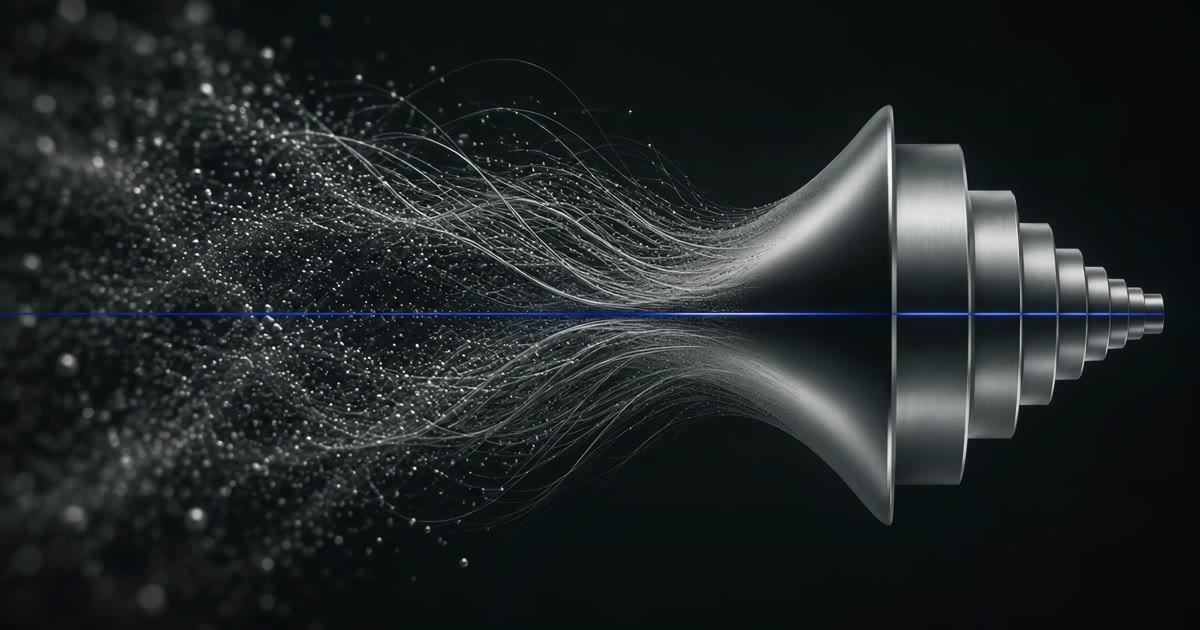
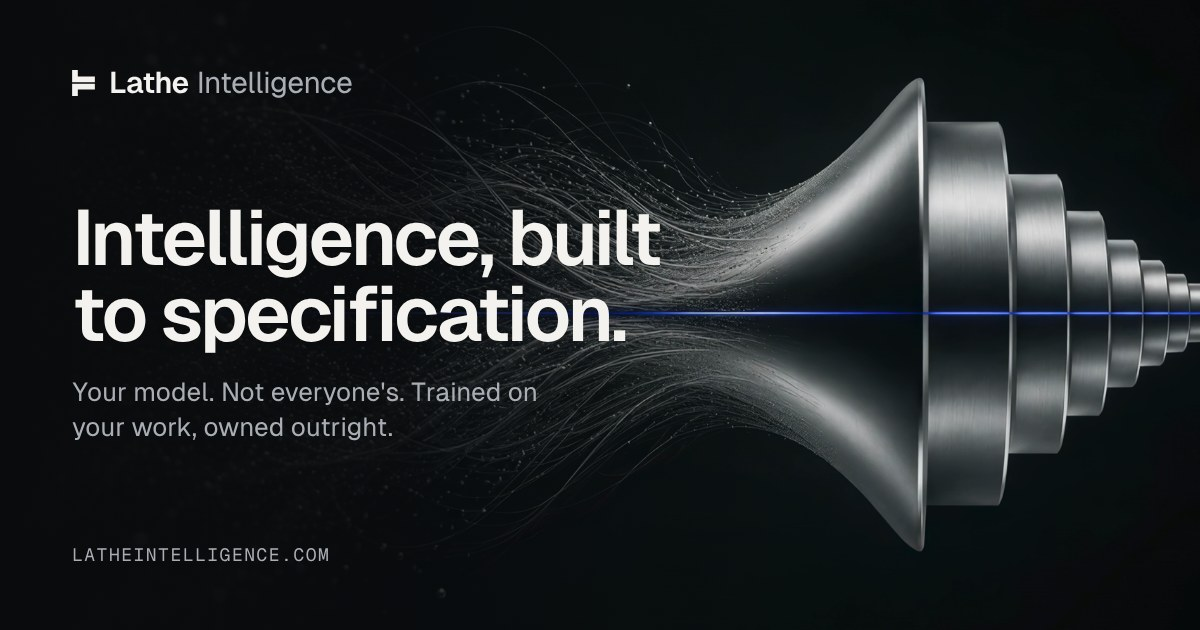
Share card, SEO metadata, robots and sitemap
Claude-Session: https://claude.ai/code/session_01Ubo5dTE5ivrUNGmjaSktkC

diff --git a/index.html b/index.html
@@ -3,18 +3,29 @@
 <head>
 <meta charset="utf-8">
 <meta name="viewport" content="width=device-width, initial-scale=1">
-<title>Lathe Intelligence</title>
-<meta name="description" content="Intelligence, built to specification. Specialised AI models trained on your work, run on your terms, owned outright.">
+<title>Lathe Intelligence | Specialised AI models, owned outright</title>
+<meta name="description" content="Lathe Intelligence builds specialised AI models to your specification: trained on your work, run on your terms and owned outright.">
+<meta name="theme-color" content="#090B0D">
+<meta name="robots" content="index,follow">
 <link rel="icon" href="/favicon.ico" sizes="48x48">
 <link rel="icon" href="/favicon.svg" type="image/svg+xml">
 <link rel="apple-touch-icon" href="/apple-touch-icon.png">
 <link rel="canonical" href="https://latheintelligence.com/">
 <meta property="og:type" content="website">
+<meta property="og:site_name" content="Lathe Intelligence">
+<meta property="og:locale" content="en_GB">
 <meta property="og:url" content="https://latheintelligence.com/">
-<meta property="og:title" content="Lathe Intelligence">
-<meta property="og:description" content="Intelligence, built to specification. Specialised AI models trained on your work, run on your terms, owned outright.">
+<meta property="og:title" content="Lathe Intelligence | Intelligence, built to specification.">
+<meta property="og:description" content="Lathe Intelligence builds specialised AI models to your specification: trained on your work, run on your terms and owned outright.">
 <meta property="og:image" content="https://latheintelligence.com/og.jpg">
+<meta property="og:image:width" content="1200">
+<meta property="og:image:height" content="630">
+<meta property="og:image:alt" content="Lathe Intelligence. Intelligence, built to specification.">
 <meta name="twitter:card" content="summary_large_image">
+<meta name="twitter:title" content="Lathe Intelligence | Intelligence, built to specification.">
+<meta name="twitter:description" content="Lathe Intelligence builds specialised AI models to your specification: trained on your work, run on your terms and owned outright.">
+<meta name="twitter:image" content="https://latheintelligence.com/og.jpg">
+<script type="application/ld+json">{"@context":"https://schema.org","@graph":[{"@type":"Organization","@id":"https://latheintelligence.com/#org","name":"Lathe Intelligence","url":"https://latheintelligence.com/","logo":"https://latheintelligence.com/apple-touch-icon.png","description":"Lathe Intelligence builds specialised AI models to your specification: trained on your work, run on your terms and owned outright.","email":"hello@latheintelligence.com"},{"@type":"WebSite","@id":"https://latheintelligence.com/#site","url":"https://latheintelligence.com/","name":"Lathe Intelligence","publisher":{"@id":"https://latheintelligence.com/#org"}}]}</script>
 <link rel="preconnect" href="https://fonts.googleapis.com">
 <link rel="stylesheet" href="https://fonts.googleapis.com/css2?family=Geist:wght@400;500;600&family=Geist+Mono:wght@400;500&display=swap">
 <style>
